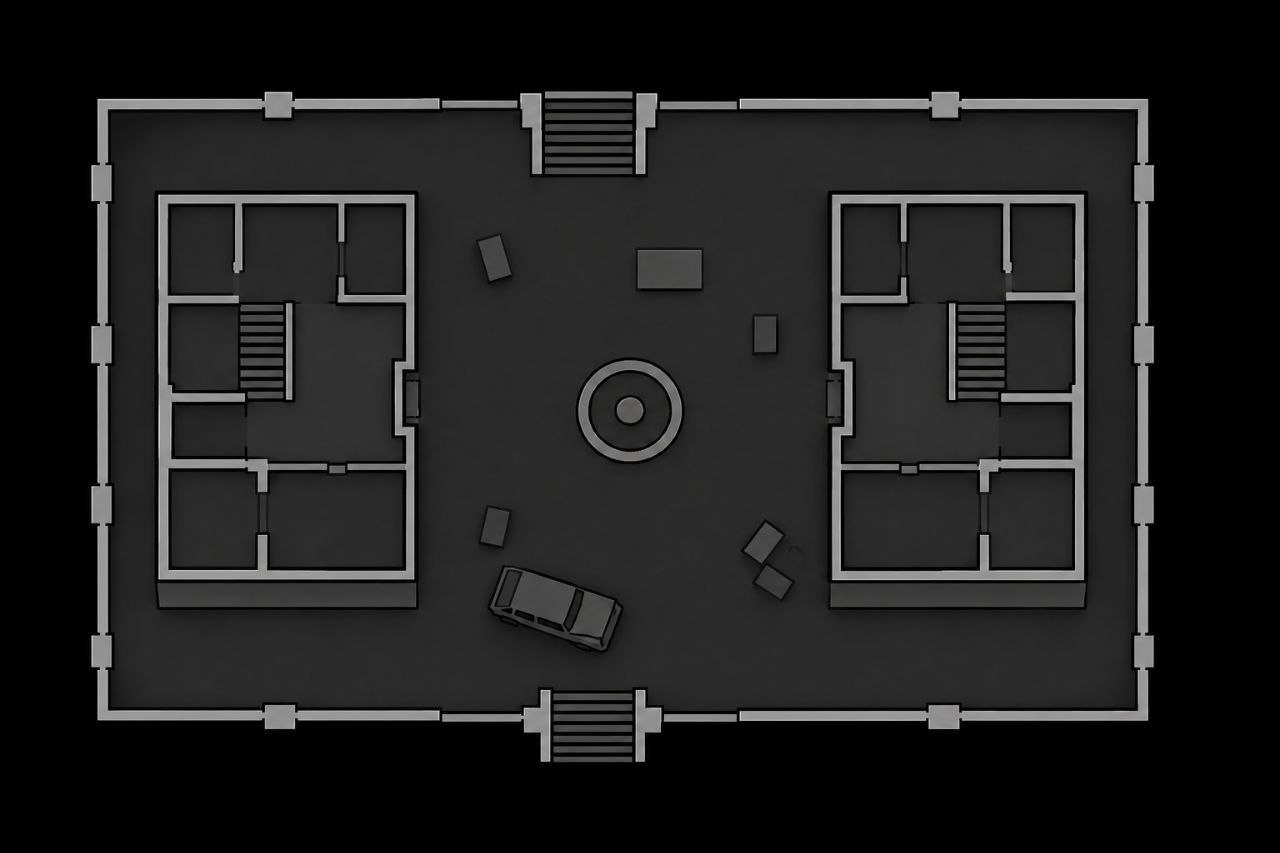
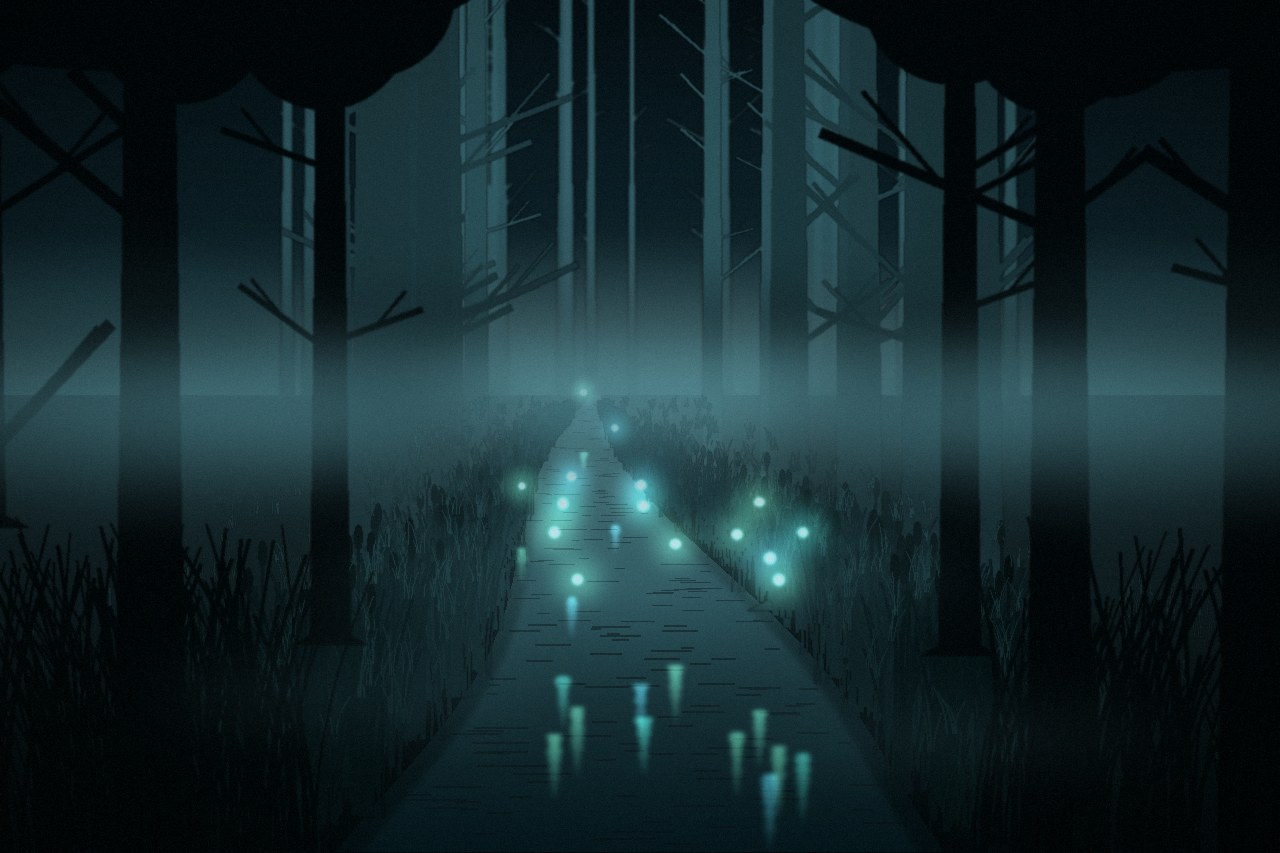
Add files via upload

diff --git a/public/index.html b/public/index.html
@@ -1680,9 +1680,9 @@ cot(-14.6, -6.2, 'x', 4, M2.blue); cot(-14.6, -4.9, 'x', 4);
       const TIERS = 5;
       const trunk = new THREE.InstancedMesh(new THREE.CylinderGeometry(0.14, 0.34, 1, 7).translate(0, 0.5, 0), new THREE.MeshStandardMaterial({ color: 0xffffff, roughness: 1, emissive: 0x050302 }), n);
       const fol = new THREE.InstancedMesh(new THREE.ConeGeometry(1, 1, 9).translate(0, 0.5, 0), new THREE.MeshStandardMaterial({ color: 0xffffff, roughness: 1, emissive: 0x04100c }), n * TIERS);
-      const C = new THREE.Color(), FOG = new THREE.Color(0x5f8a90), GREENS = [0x0e2a20, 0x123226, 0x0b2219, 0x17382b, 0x10281f];
+      const C = new THREE.Color(), FOG = new THREE.Color(0x6e5c4a), GREENS = [0x0e2a20, 0x123226, 0x0b2219, 0x17382b, 0x10281f];
       treeList.forEach((t, i) => {
-        const H = (11 + SR() * 9) * t.s * t.tall;   // высота 11…20 м (× масштаб)
+        const H = (20 + SR() * 12) * t.s * t.tall;   // высота 20…32 м (× масштаб), дальние кольца ещё выше
         const dist = Math.hypot(t.x, t.z), fogK = Math.min(0.62, Math.max(0, (dist - 44) / 38));   // чем дальше — тем светлее (воздушная дымка)
         const lean = (SR() - 0.5) * 0.05, q = new THREE.Quaternion().setFromEuler(EU.set(lean, t.ry, lean));
         MX.compose(V3.set(t.x, 0, t.z), q, SC.set(t.s, H * 0.62, t.s)); trunk.setMatrixAt(i, MX);
@@ -1704,7 +1704,7 @@ cot(-14.6, -6.2, 'x', 4, M2.blue); cot(-14.6, -4.9, 'x', 4);
      [-8, -29.5, 1.0], [7, -29.5, 1.1], [14.5, -30, 1.0], [-8, 29.5, 1.1], [-14.5, 30, 1.0], [7, 29.5, 1.0]
     ].forEach(t => plant(t[0], t[1], t[2], true, 0.85));
     // настоящий лес за дорогой: 3 плотных кольца, квадратный контур (дорога и тротуар заканчиваются на |x|,|z| = 44.4), на въездах деревья реже
-    for (const [r0, r1, cnt, tall] of [[47.5, 53, 120, 1.0], [53, 61, 150, 1.25], [61, 68, 130, 1.5]]) {
+    for (const [r0, r1, cnt, tall] of [[47.5, 53, 120, 1.0], [53, 61, 150, 1.2], [61, 68, 130, 1.4]]) {
       for (let i = 0; i < cnt; i++) {
         const side = (SR() * 4) | 0, u = (SR() * 2 - 1) * (r1 + 3), d = r0 + SR() * (r1 - r0);
         const x = side < 2 ? u : (side === 2 ? -d : d), z = side < 2 ? (side === 0 ? -d : d) : u;
@@ -1742,10 +1742,10 @@ cot(-14.6, -6.2, 'x', 4, M2.blue); cot(-14.6, -4.9, 'x', 4);
     }
     { // сизая дымка между рядами деревьев — глубина и «болотное» настроение
       const [hc, h] = cv(4, 64), hg = h.createLinearGradient(0, 0, 0, 64);
-      hg.addColorStop(0, 'rgba(95,138,144,0)'); hg.addColorStop(0.55, 'rgba(95,138,144,0.30)'); hg.addColorStop(1, 'rgba(70,105,110,0.5)');
+      hg.addColorStop(0, 'rgba(110,88,64,0)'); hg.addColorStop(0.55, 'rgba(110,88,64,0.30)'); hg.addColorStop(1, 'rgba(80,62,46,0.5)');
       h.fillStyle = hg; h.fillRect(0, 0, 4, 64);
       const ht = new THREE.CanvasTexture(hc);
-      for (const r of [52, 60]) { const hz = new THREE.Mesh(new THREE.CylinderGeometry(r, r, 22, 48, 1, true), new THREE.MeshBasicMaterial({ map: ht, transparent: true, side: THREE.BackSide, depthWrite: false, fog: false })); hz.position.y = 8; hz.renderOrder = 2; scene.add(hz); }
+      for (const r of [52, 60]) { const hz = new THREE.Mesh(new THREE.CylinderGeometry(r, r, 36, 48, 1, true), new THREE.MeshBasicMaterial({ map: ht, transparent: true, side: THREE.BackSide, depthWrite: false, fog: false })); hz.position.y = 15; hz.renderOrder = 2; scene.add(hz); }
     }
     buildCars(); buildTrees();
   })();
@@ -1940,97 +1940,102 @@ function animFires(t) {
 const mistSprites = [];
 // ---------- Verrückt: задний фон — тёмный мистический лес с болотом (панорама на куполе вокруг камеры) ----------
 let vkSky = null;
-function mkSwampSky() {
-  const CW = 2048, CH = 1024, HZ = CH * 0.5;
-  const cv = document.createElement('canvas'); cv.width = CW; cv.height = CH;
-  const c = cv.getContext('2d');
-  let sd = 20261112; const R = () => (sd = (sd * 1664525 + 1013904223) >>> 0) / 4294967296;   // детерминированно: у всех игроков одинаково
-  const FOGC = [100, 142, 150], DARK = [3, 9, 11];
-  const mixc = (t, a, b) => 'rgb(' + [0, 1, 2].map(i => Math.round(a[i] * (1 - t) + b[i] * t)).join(',') + ')';   // t=0 — тёмный, t=1 — цвет тумана
-  // небо и водная гладь
-  let g = c.createLinearGradient(0, 0, 0, HZ);
-  g.addColorStop(0, '#040b0d'); g.addColorStop(0.5, '#0c1f24'); g.addColorStop(0.82, '#335259'); g.addColorStop(1, '#6a949a');
-  c.fillStyle = g; c.fillRect(0, 0, CW, HZ);
-  g = c.createLinearGradient(0, HZ, 0, CH);
-  g.addColorStop(0, '#5b838a'); g.addColorStop(0.1, '#1f3f46'); g.addColorStop(0.5, '#0a1b1f'); g.addColorStop(1, '#030909');
-  c.fillStyle = g; c.fillRect(0, HZ, CW, CH - HZ);
-  // три узкие водные тропы, уходящие в туман
-  const GAPS = [CW * 0.12, CW * 0.45, CW * 0.78];
-  const inGap = (x, hw) => GAPS.some(a => Math.abs(x - a) < hw);
-  for (const a of GAPS) {
-    const pg = c.createLinearGradient(0, HZ, 0, HZ + 200);
-    pg.addColorStop(0, 'rgba(150,190,196,0.7)'); pg.addColorStop(0.55, 'rgba(40,80,88,0.45)'); pg.addColorStop(1, 'rgba(8,26,30,0)');
-    c.fillStyle = pg; c.beginPath(); c.moveTo(a - 3, HZ); c.lineTo(a + 3, HZ); c.lineTo(a + 120, HZ + 200); c.lineTo(a - 120, HZ + 200); c.closePath(); c.fill();
-  }
-  // деревья слоями: дальние светлее (в тумане), ближние — чёрные силуэты
-  const LAY = [{ n: 46, w: [8, 16], h: [0.30, 0.46], t: 0.8 }, { n: 36, w: [14, 26], h: [0.40, 0.5], t: 0.55 }, { n: 26, w: [22, 42], h: [0.46, 0.5], t: 0.3 }, { n: 16, w: [36, 64], h: [0.5, 0.5], t: 0.08 }];
-  for (const L of LAY) {
-    const col = mixc(L.t, DARK, FOGC);
-    c.fillStyle = col; c.strokeStyle = col;
-    for (let i = 0; i < L.n; i++) {
-      const x = R() * CW, w = L.w[0] + R() * (L.w[1] - L.w[0]), top = HZ - (L.h[0] + R() * (L.h[1] - L.h[0])) * CH;
-      const br = []; for (let k = 0; k < 4; k++) br.push([top + R() * (HZ - top) * 0.7, R() < 0.5 ? -1 : 1, 0.8 + R() * 2.2]);
-      if (inGap(x, 60 + L.t * 70)) continue;
-      for (const dx of [-CW, 0, CW]) {
-        const X = x + dx;
-        c.beginPath(); c.moveTo(X - w / 2, HZ + 6); c.lineTo(X - w * 0.3, top); c.lineTo(X + w * 0.3, top); c.lineTo(X + w / 2, HZ + 6); c.closePath(); c.fill();
-        c.lineWidth = Math.max(1.5, w * 0.16);
-        for (const b of br) { c.beginPath(); c.moveTo(X, b[0]); c.lineTo(X + b[1] * w * b[2], b[0] - w * b[2] * 0.8); c.lineTo(X + b[1] * w * b[2] * 1.4, b[0] - w * b[2] * 1.7); c.stroke(); }
-      }
-    }
-    const fg = c.createLinearGradient(0, HZ - 260, 0, HZ + 60);   // туман между слоями
-    fg.addColorStop(0, 'rgba(105,148,154,0)'); fg.addColorStop(0.8, 'rgba(105,148,154,' + (0.5 * L.t + 0.12) + ')'); fg.addColorStop(1, 'rgba(105,148,154,0)');
-    c.fillStyle = fg; c.fillRect(0, HZ - 260, CW, 320);
-  }
-  // свечение тумана в конце троп
-  for (const a of GAPS) {
-    const rg = c.createRadialGradient(a, HZ, 0, a, HZ, 150);
-    rg.addColorStop(0, 'rgba(175,210,214,0.75)'); rg.addColorStop(1, 'rgba(175,210,214,0)');
-    c.fillStyle = rg; c.fillRect(a - 150, HZ - 150, 300, 300);
-  }
-  // рябь на воде
-  c.lineWidth = 1;
-  for (let i = 0; i < 400; i++) { const y = HZ + 4 + R() * 200, s = (y - HZ) / 200, x = R() * CW, l = 8 + s * 50; c.strokeStyle = 'rgba(' + [90, 130, 138].join(',') + ',' + (0.12 + 0.15 * (1 - s)) + ')'; c.beginPath(); c.moveTo(x - l, y); c.lineTo(x + l, y); c.stroke(); }
-  // тёмная трава и камыши у воды
-  for (let i = 0; i < 1500; i++) {
-    const yb = HZ + 4 + R() * 140, s = (yb - HZ) / 140, x = R() * CW;
-    if (GAPS.some(a => Math.abs(x - a) < 6 + s * 80)) continue;
-    c.strokeStyle = mixc(Math.max(0, 0.7 - s), DARK, FOGC); c.lineWidth = 1 + s * 2;
-    const len = 8 + s * 55, bend = (R() - 0.5) * len * 0.5;
-    for (const dx of [-CW, 0, CW]) { c.beginPath(); c.moveTo(x + dx, yb); c.quadraticCurveTo(x + dx, yb - len * 0.6, x + dx + bend, yb - len); c.stroke(); }
-    if (R() < 0.12) { c.fillStyle = c.strokeStyle; c.beginPath(); c.ellipse(x + bend, yb - len - 3, 1.5 + s * 1.5, 4 + s * 4, 0, 0, 7); c.fill(); }
-  }
-  // огоньки и их отражения
+let vkClouds = null;
+function mkWarSky() {   // небо Второй мировой: закопчённое, жёлто-бурый смог, дым пожаров, прожекторы, разрывы зениток, силуэты бомбардировщиков
+  const CW = 2048, CH = 1024, HZ = CH * 0.5, TAU = Math.PI * 2;
+  const mk = () => { const c = document.createElement('canvas'); c.width = CW; c.height = CH; return [c, c.getContext('2d')]; };
+  let sd = 19440606; const R = () => (sd = (sd * 1664525 + 1013904223) >>> 0) / 4294967296;   // детерминированно: у всех игроков одинаково
+  const wrapX = (x, r, fn) => { for (const dx of [-CW, 0, CW]) if (x + dx > -r && x + dx < CW + r) fn(x + dx); };
+  const [cv1, c] = mk();
+  let g = c.createLinearGradient(0, 0, 0, CH);
+  [[0, '#0c0a09'], [0.16, '#1a1613'], [0.32, '#3a2e25'], [0.42, '#6d5238'], [0.475, '#a9783f'], [0.5, '#c58a4a'], [0.505, '#2a1e16'], [0.6, '#17110d'], [1, '#080605']].forEach(q => g.addColorStop(q[0], q[1]));
+  c.fillStyle = g; c.fillRect(0, 0, CW, CH);
+  // тусклое красное солнце, размазанное дымом
+  const SX = CW * 0.62, SY = HZ - 150;
+  wrapX(SX, 260, x => {
+    let h = c.createRadialGradient(x, SY, 10, x, SY, 260); h.addColorStop(0, 'rgba(235,150,70,0.55)'); h.addColorStop(0.35, 'rgba(190,100,45,0.25)'); h.addColorStop(1, 'rgba(150,70,30,0)');
+    c.fillStyle = h; c.fillRect(x - 260, SY - 260, 520, 520);
+    h = c.createRadialGradient(x, SY, 2, x, SY, 48); h.addColorStop(0, 'rgba(255,214,150,0.95)'); h.addColorStop(0.6, 'rgba(235,140,70,0.7)'); h.addColorStop(1, 'rgba(200,90,40,0)');
+    c.fillStyle = h; c.beginPath(); c.arc(x, SY, 48, 0, TAU); c.fill();
+  });
+  // зарево дальних пожаров у горизонта
   c.globalCompositeOperation = 'lighter';
-  for (let i = 0; i < 36; i++) {
-    const near = R() < 0.65, x = near ? GAPS[(R() * 3) | 0] + (R() - 0.5) * 300 : R() * CW;
-    const s = 0.1 + R() * 0.9, yw = HZ + s * 150, y = yw - (8 + s * 46), r = 2 + s * 8;
-    const col = [[110, 255, 225], [120, 235, 255], [150, 255, 200]][(R() * 3) | 0];
-    for (const dx of [-CW, 0, CW]) {
-      const X = x + dx;
-      let rg = c.createRadialGradient(X, y, 0, X, y, r * 4); rg.addColorStop(0, 'rgba(' + col + ',0.9)'); rg.addColorStop(0.25, 'rgba(' + col + ',0.35)'); rg.addColorStop(1, 'rgba(' + col + ',0)');
-      c.fillStyle = rg; c.fillRect(X - r * 4, y - r * 4, r * 8, r * 8);
-      const yr = yw + (yw - y);   // отражение на воде
-      rg = c.createRadialGradient(X, yr, 0, X, yr, r * 3); rg.addColorStop(0, 'rgba(' + col + ',0.45)'); rg.addColorStop(1, 'rgba(' + col + ',0)');
-      c.save(); c.translate(X, yr); c.scale(0.5, 1.8); c.translate(-X, -yr); c.fillStyle = rg; c.fillRect(X - r * 3, yr - r * 3, r * 6, r * 6); c.restore();
-    }
+  for (let i = 0; i < 14; i++) wrapX(R() * CW, 240, x => {
+    c.save(); c.translate(x, HZ); c.scale(1, 0.34);
+    const fg = c.createRadialGradient(0, 0, 0, 0, 0, 220), k = 0.22 + R() * 0.3;
+    fg.addColorStop(0, 'rgba(235,110,35,' + k + ')'); fg.addColorStop(1, 'rgba(235,110,35,0)');
+    c.fillStyle = fg; c.fillRect(-220, -220, 440, 440); c.restore();
+  });
+  // лучи прожекторов ПВО
+  for (let i = 0; i < 7; i++) {
+    const bx = R() * CW, ang = (R() - 0.5) * 0.7, len = 330 + R() * 220, hw = 5 + R() * 5;
+    wrapX(bx, 260, x => {
+      const tx = x + Math.sin(ang) * len, ty = HZ - Math.cos(ang) * len, gg = c.createLinearGradient(x, HZ, tx, ty);
+      gg.addColorStop(0, 'rgba(235,225,190,0.32)'); gg.addColorStop(1, 'rgba(235,225,190,0)');
+      c.fillStyle = gg; c.beginPath(); c.moveTo(x - 2.5, HZ); c.lineTo(x + 2.5, HZ); c.lineTo(tx + hw, ty); c.lineTo(tx - hw, ty); c.closePath(); c.fill();
+    });
   }
   c.globalCompositeOperation = 'source-over';
-  const tex = new THREE.CanvasTexture(cv);
-  tex.anisotropy = 4;
-  const dome = new THREE.Mesh(new THREE.SphereGeometry(70, 48, 24), new THREE.MeshBasicMaterial({ map: tex, side: THREE.BackSide, fog: false, depthWrite: false }));
-  dome.renderOrder = -1000; dome.frustumCulled = false;
-  scene.add(dome);
+  // силуэты бомбардировщиков высоко в небе (группами)
+  c.fillStyle = 'rgba(8,6,5,0.85)';
+  for (let f = 0; f < 5; f++) {
+    const fx = R() * CW, fy = HZ * (0.22 + R() * 0.38), n = 3 + ((R() * 4) | 0);
+    for (let k = 0; k < n; k++) wrapX(fx + k * 26 + R() * 12, 20, x => {
+      const y = fy + k * 7 + R() * 6, s = 0.8 + R() * 0.4;
+      c.beginPath(); c.moveTo(x - 11 * s, y); c.lineTo(x + 9 * s, y - 1.3 * s); c.lineTo(x + 11 * s, y); c.lineTo(x + 9 * s, y + 1.3 * s); c.closePath(); c.fill();
+      c.beginPath(); c.moveTo(x - 1 * s, y); c.lineTo(x - 5 * s, y - 8 * s); c.lineTo(x + 2 * s, y); c.lineTo(x - 5 * s, y + 8 * s); c.closePath(); c.fill();
+    });
+  }
+  // разрывы зенитных снарядов: тёмные клубки со вспышкой
+  for (let i = 0; i < 26; i++) wrapX(R() * CW, 40, x => {
+    const y = HZ * (0.18 + R() * 0.62), r = 6 + R() * 12;
+    let h = c.createRadialGradient(x, y, 0, x, y, r * 2.4); h.addColorStop(0, 'rgba(18,14,12,0.7)'); h.addColorStop(1, 'rgba(18,14,12,0)');
+    c.fillStyle = h; c.fillRect(x - r * 2.4, y - r * 2.4, r * 4.8, r * 4.8);
+    if (R() < 0.35) { h = c.createRadialGradient(x, y, 0, x, y, r * 0.9); h.addColorStop(0, 'rgba(255,200,110,0.8)'); h.addColorStop(1, 'rgba(255,150,60,0)'); c.fillStyle = h; c.fillRect(x - r, y - r, r * 2, r * 2); }
+  });
+  // столбы дыма от пожаров, уходящие вверх с горизонта
+  for (let i = 0; i < 9; i++) {
+    const bx = R() * CW, lean = (R() - 0.5) * 160;
+    wrapX(bx, 300, x => {
+      for (let k = 0; k < 20; k++) {
+        const t = k / 19, y = HZ - 8 - t * HZ * 0.82, cx = x + lean * t, r = 20 + t * 85;
+        const h = c.createRadialGradient(cx, y, 0, cx, y, r); h.addColorStop(0, 'rgba(14,11,9,' + (0.5 - t * 0.2) + ')'); h.addColorStop(1, 'rgba(14,11,9,0)');
+        c.fillStyle = h; c.fillRect(cx - r, y - r, r * 2, r * 2);
+      }
+    });
+  }
+  // плотная смоговая полоса у горизонта
+  g = c.createLinearGradient(0, HZ - 130, 0, HZ + 4);
+  g.addColorStop(0, 'rgba(110,86,62,0)'); g.addColorStop(0.7, 'rgba(120,92,62,0.45)'); g.addColorStop(1, 'rgba(70,52,38,0.7)');
+  c.fillStyle = g; c.fillRect(0, HZ - 130, CW, 134);
+  const skyTex = new THREE.CanvasTexture(cv1); skyTex.anisotropy = 4;
+  const dome = new THREE.Mesh(new THREE.SphereGeometry(70, 48, 24), new THREE.MeshBasicMaterial({ map: skyTex, side: THREE.BackSide, fog: false, depthWrite: false }));
+  dome.renderOrder = -1000; dome.frustumCulled = false; scene.add(dome);
+  // второй слой: тяжёлые грязные тучи, медленно плывут
+  const [cv2, k2] = mk();
+  for (let i = 0; i < 90; i++) {
+    const x = R() * CW, y = HZ * (0.06 + R() * 0.8), rx = 110 + R() * 230, ry = 14 + R() * 32, nearH = y > HZ * 0.62, a = 0.34 + R() * 0.3;
+    wrapX(x, rx, X => {
+      k2.save(); k2.translate(X, y); k2.scale(1, ry / rx);
+      const cg = k2.createRadialGradient(0, 0, 0, 0, 0, rx);
+      cg.addColorStop(0, nearH ? 'rgba(120,70,36,' + a * 0.8 + ')' : 'rgba(16,13,11,' + a + ')'); cg.addColorStop(1, 'rgba(16,13,11,0)');
+      k2.fillStyle = cg; k2.fillRect(-rx, -rx, rx * 2, rx * 2); k2.restore();
+    });
+  }
+  const ct = new THREE.CanvasTexture(cv2);
+  vkClouds = new THREE.Mesh(new THREE.SphereGeometry(67, 48, 24), new THREE.MeshBasicMaterial({ map: ct, side: THREE.BackSide, transparent: true, fog: false, depthWrite: false }));
+  vkClouds.renderOrder = -999; vkClouds.frustumCulled = false; scene.add(vkClouds);
   return dome;
 }
 if (MAP_ID === 'verruckt') {
   scene.fog = null;
-  scene.background = new THREE.Color(0x0a1618);
+  scene.background = new THREE.Color(0x1a1410);
   camera.far = 130; camera.updateProjectionMatrix();   // лес тянется до ~100 м по диагонали — иначе дальние деревья обрезались бы
-  try { vkSky = mkSwampSky(); } catch (e) { console.warn('swamp sky', e); }
+  try { vkSky = mkWarSky(); } catch (e) { console.warn('war sky', e); }
 }
 function animFog(t) {
   if (vkSky) vkSky.position.copy(camera.position);   // купол неба всегда вокруг камеры
+  if (vkClouds) { vkClouds.position.copy(camera.position); vkClouds.rotation.y = t * 0.004; }
   for (const m of mistSprites) {
     const u = m.userData; m.position.x += u.vx * 0.016; m.position.z += u.vz * 0.016;
     if (m.position.x > 36) m.position.x = -36; else if (m.position.x < -36) m.position.x = 36;
